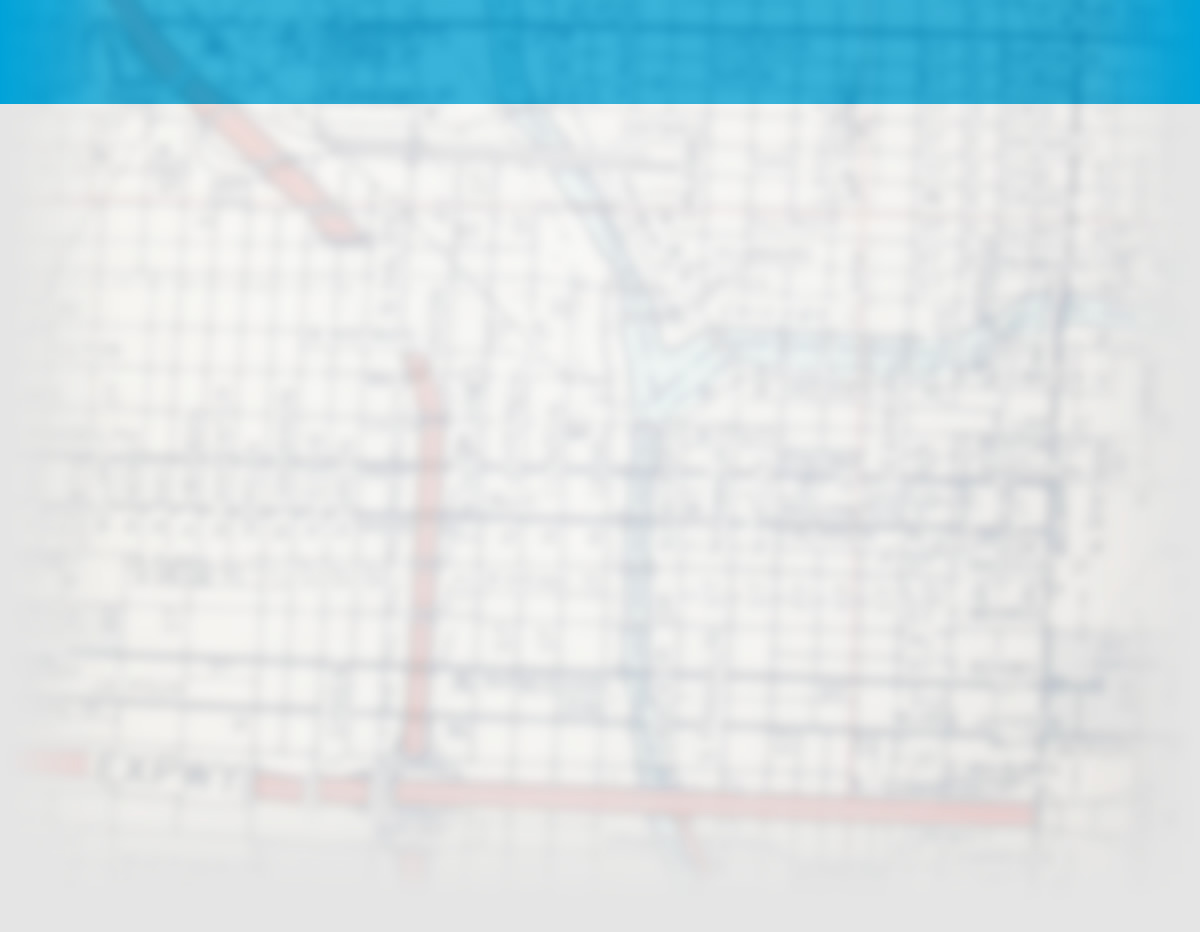
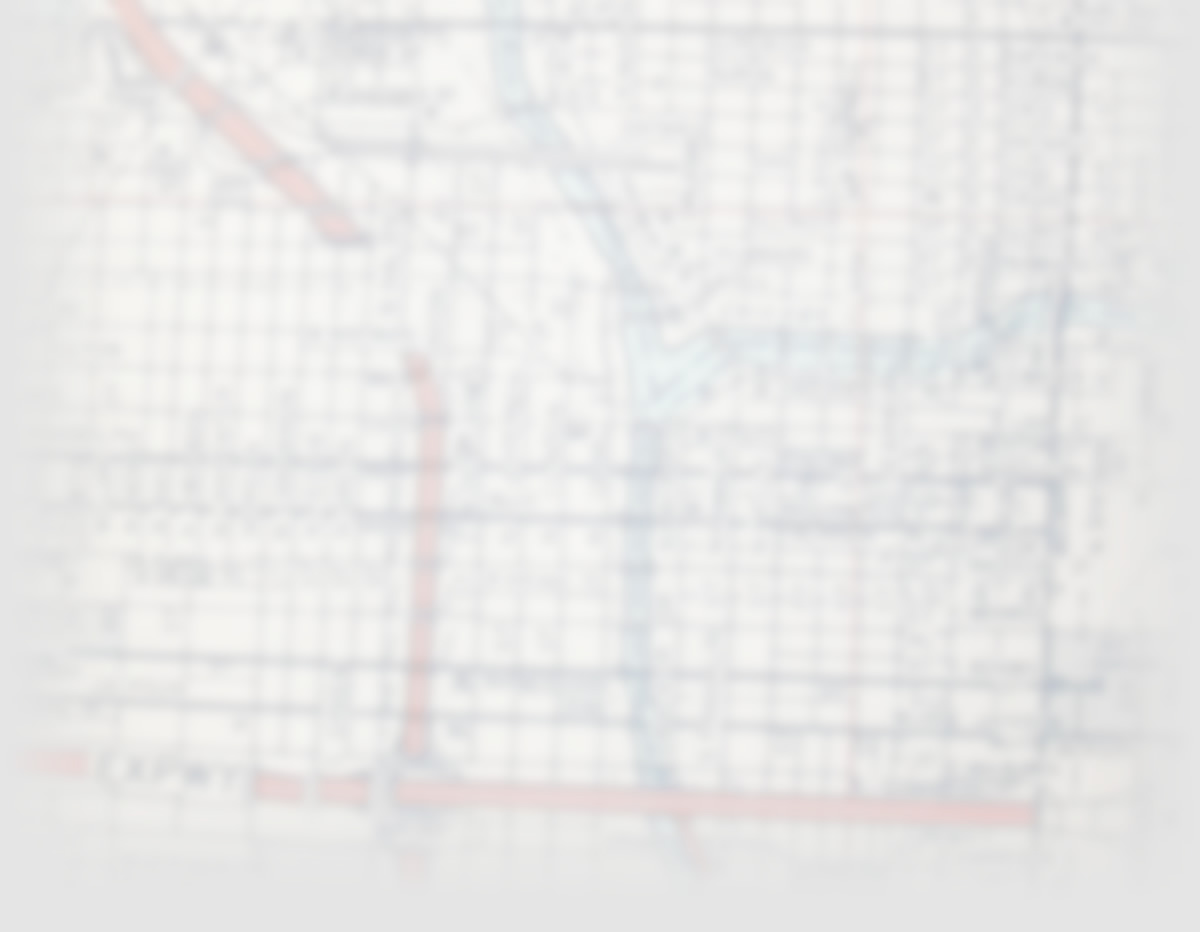
Update images, initial html, update ignores

Changed region(s): [[0.0, 0.0, 1.0, 0.1245]]

diff --git a/index.html b/index.html
@@ -1,0 +1,103 @@
+<!DOCTYPE html>
+<!--[if IE 8]> <html class="no-js lt-ie9" lang="en" > <![endif]-->
+<!--[if gt IE 8]><!--> <html class="no-js" lang="en" > <!--<![endif]-->
+<head>
+    <meta charset="utf-8" />
+    <meta name="viewport" content="width=device-width" />
+    <title>TowText: get a text message alert if your car gets towed in Chicago</title>
+    <link rel="stylesheet" href="css/towtext.css" />
+    <script src="js/vendor/custom.modernizr.js"></script>
+</head>
+<body>
+
+	<header>
+        <div class="row">
+    		<div class="large-12 columns">
+    			<h1>towtext</h1>
+    		</div>
+        </div>
+	</header>
+
+	<div class="row">
+        <div class="large-6 columns">
+            <h2>Sign up to get a free text message if your car is towed or relocated by the City of Chicago</h2>
+        </div>
+        <div class="large-3 columns">
+            
+            
+            <label for="plate">License Plate</label>
+            <input type="text" maxlength="10" name="plate" />
+            
+            <label for="phone">Cell Phone Number</label>
+            <input type="text" name="phone" />
+        </div>
+        <div class="large-3 columns">
+            <label for="state">State</label>
+            <select name="state">
+            	<option value="AL">Alabama</option>
+            	<option value="AK">Alaska</option>
+            	<option value="AZ">Arizona</option>
+            	<option value="AR">Arkansas</option>
+            	<option value="CA">California</option>
+            	<option value="CO">Colorado</option>
+            	<option value="CT">Connecticut</option>
+            	<option value="DE">Delaware</option>
+            	<option value="DC">District of Columbia</option>
+            	<option value="FL">Florida</option>
+            	<option value="GA">Georgia</option>
+            	<option value="HI">Hawaii</option>
+            	<option value="ID">Idaho</option>
+            	<option value="IL" selected>Illinois</option>
+            	<option value="IN">Indiana</option>
+            	<option value="IA">Iowa</option>
+            	<option value="KS">Kansas</option>
+            	<option value="KY">Kentucky</option>
+            	<option value="LA">Louisiana</option>
+            	<option value="ME">Maine</option>
+            	<option value="MD">Maryland</option>
+            	<option value="MA">Massachusetts</option>
+            	<option value="MI">Michigan</option>
+            	<option value="MN">Minnesota</option>
+            	<option value="MS">Mississippi</option>
+            	<option value="MO">Missouri</option>
+            	<option value="MT">Montana</option>
+            	<option value="NE">Nebraska</option>
+            	<option value="NV">Nevada</option>
+            	<option value="NH">New Hampshire</option>
+            	<option value="NJ">New Jersey</option>
+            	<option value="NM">New Mexico</option>
+            	<option value="NY">New York</option>
+            	<option value="NC">North Carolina</option>
+            	<option value="ND">North Dakota</option>
+            	<option value="OH">Ohio</option>
+            	<option value="OK">Oklahoma</option>
+            	<option value="OR">Oregon</option>
+            	<option value="PA">Pennsylvania</option>
+            	<option value="RI">Rhode Island</option>
+            	<option value="SC">South Carolina</option>
+            	<option value="SD">South Dakota</option>
+            	<option value="TN">Tennessee</option>
+            	<option value="TX">Texas</option>
+            	<option value="UT">Utah</option>
+            	<option value="VT">Vermont</option>
+            	<option value="VA">Virginia</option>
+            	<option value="WA">Washington</option>
+            	<option value="WV">West Virginia</option>
+            	<option value="WI">Wisconsin</option>
+            	<option value="WY">Wyoming</option>
+            </select>
+        
+            <input type="submit" value="Sign Up" name="submit" />
+        </div>
+    </div>
+    <div class="row">
+        <div class="large-6 columns">
+            <img src="img/towtext-chicago.png" alt="TowText Chicago" />
+        </div>
+    </div>
+        
+    
+    <div style="position:absolute;"> </div>
+
+</body>
+</html>
